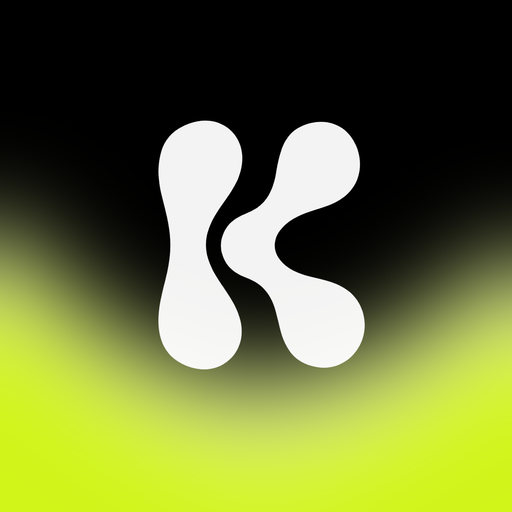
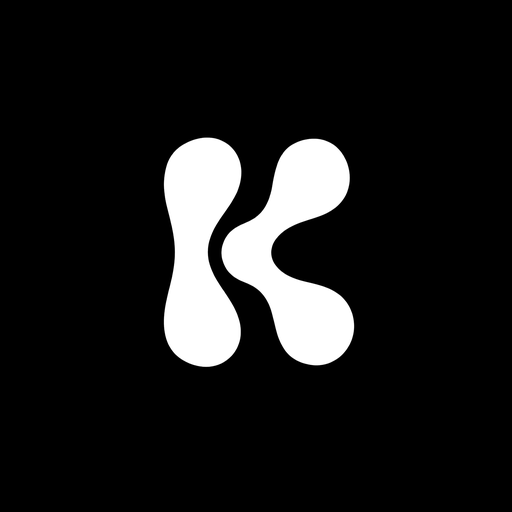
Use Kinora artwork throughout EffectCraft app

diff --git a/README.md b/README.md
@@ -11,6 +11,8 @@ This repository builds the open-source **EffectCraft** application for Android u
 
 APK files are written to `android-builder/output/`, with names such as `kinora-effect-<version>.apk`. Building requires Linux x86_64, Rust 1.95 or newer, Java 17–23, and an internet connection. The builder downloads the Android SDK and JDK when they are not already available. Pass `-appicon=/path/to/icon.png` to use a different launcher icon.
 
+The Kinora artwork is used both for the Android launcher icon and for the EffectCraft application mark shown inside the UI and About dialog. The editor's tool icons are intentionally unchanged.
+
 The builder stores its signing key locally at `android-builder/keys/kinora-effect.jks`. Keep this key to install future APKs signed with the same key, and do not commit it to GitHub. This local key is not an official Google Play release key.
 
 ## Android display mode
